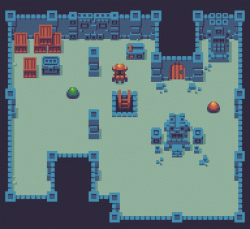
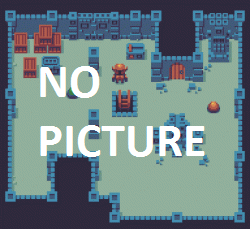
allow to upload pictures

Changed region(s): [[0.14, 0.5197, 0.84, 0.7031], [0.14, 0.2751, 0.42, 0.4279]]

diff --git a/controllers/entry.js b/controllers/entry.js
@@ -1,4 +1,7 @@
 const formidable = require('formidable')
+const promisify = require('promisify-node')
+const fs = promisify('fs')
+const path = require('path')
 const Entry = require('../models/entryModel')
 
 module.exports = {
@@ -8,7 +11,7 @@ module.exports = {
 
     app.get('/entry/:uuid', viewEntry)
     app.get('/entry/:uuid/edit', editEntry)
-    app.post('/entry/:uuid/edit', saveEntry)
+    app.post('/entry/:uuid', saveEntry)
   }
 
 }
@@ -19,8 +22,7 @@ module.exports = {
 async function entryMiddleware (req, res, next) {
   let entry = await Entry.where('id', req.params.uuid).fetch({ withRelated: 'event' })
   if (entry === null) {
-    res.locals.errorMessage = 'Entry not found'
-    res.error404()
+    res.error(404, 'Entry not found')
   } else {
     res.locals.entry = entry
     res.locals.event = entry.related('event')
@@ -31,7 +33,7 @@ async function entryMiddleware (req, res, next) {
 /**
  * Browse entry
  */
-async function viewEntry (req, res) {
+function viewEntry (req, res) {
   res.render('entry', {
     entry: res.locals.entry,
     event: res.locals.event
@@ -41,7 +43,7 @@ async function viewEntry (req, res) {
 /**
  * Edit entry
  */
-async function editEntry (req, res) {
+function editEntry (req, res) {
   res.render('entry-edit', {
     entry: res.locals.entry,
     event: res.locals.event
@@ -51,21 +53,33 @@ async function editEntry (req, res) {
 /**
  * Save entry
  */
-async function saveEntry (req, res) {
-  let form = new formidable.IncomingForm()
-  form.parse(req, function (error, fields, files) {
-    if (error) {
-      // TODO 500 page (replace error404 method with a more generic one)
-      res.end(error)
-    } else {
-      // TODO Save uploaded file, escape input
-      let entry = res.locals.entry
-      entry.set('title', fields.title)
-      entry.set('link', fields.link)
-      entry.set('description', fields.description)
-      entry.save()
-
-      res.redirect('/entry/' + req.params.uuid)
+function saveEntry (req, res) {
+  req.parseForm(async function (error, fields, files) {
+    if (!res.headersSent) { // FIXME Why?
+      if (error) {
+        res.error(500, error)
+      } else {
+        let entry = res.locals.entry
+        entry.set('title', fields.title)
+        entry.set('link', fields.link)
+        entry.set('description', fields.description)
+        if (fields.pictureDelete) {
+          entry.set('picture', null)
+        } else if (files.picture) {
+          // TODO Consts import to hold paths and URLs
+          let newFilename = entry.get('id') + path.extname(files.picture.path)
+          let newPath = path.join(__dirname, '../static/uploads', newFilename)
+          try {
+            await fs.rename(files.picture.path, newPath)
+            entry.set('picture', '/static/uploads/' + newFilename)
+          }
+          catch (e) {
+            res.error(500, 'Failed to upload picture: ' + e.message)
+          }
+        }
+        entry.save()
+        viewEntry(req, res)
+      }
     }
   })
 }

diff --git a/lib/middleware.js b/lib/middleware.js
@@ -2,8 +2,11 @@ const path = require('path')
 const express = require('express')
 const expressNunjucks = require('express-nunjucks')
 const postCss = require('postcss-middleware')
+const formidable = require('formidable')
+const promisify = require('promisify-node')
 
 const ROOT_PATH = path.join(__dirname, '..')
+const MB = 1024 * 1024
 
 /**
  * Setup app middleware
@@ -24,7 +27,7 @@ module.exports.configure = async function (app) {
   })
   app.use(function (req, res, next) {
     // Allow anyone to display a 404
-    res.error404 = () => error404(req, res)
+    res.errorPage = (code, message) => error404(req, res, code, message)
 
     // Context made available anywhere
     let superRender = res.render
@@ -41,7 +44,19 @@ module.exports.configure = async function (app) {
 
     next()
   })
-
+  
+  // Formidable (form parsing/file upload)
+  let form = new formidable.IncomingForm()
+  form.uploadDir = path.join(__dirname, '../data/tmp')
+  form.maxFieldsSize = 2 * MB
+  form.keepExtensions = true
+  app.use(function (req, res, next) {
+    req.parseForm = function(cb) {
+      form.parse(req, cb)
+    }
+    next()
+  })
+  
   // Routing: Views
   require('../controllers/event.js').initRoutes(app)
   require('../controllers/entry.js').initRoutes(app)
@@ -54,7 +69,9 @@ module.exports.configure = async function (app) {
 /**
  * Middleware displaying a 404 page
  */
-function error404 (req, res) {
-  res.status(404)
-  res.render('404', {errorMessage: res.locals.errorMessage || 'Page not found'})
+function error404 (req, res, code, message) {
+  let errorTemplate = (code == 500) ? 500 : 404
+  let defaultMessage = (code == 404) ? 'Page not found' : ''
+  res.status(code)
+  res.render(errorTemplate, {message: message || defaultMessage})
 }

diff --git a/static/css/wejam.css b/static/css/wejam.css
@@ -1,6 +1,6 @@
 :root {
   --text: #19181b; /* dark purple */
-  --links: #5b6ada; /* blue */
+  --links: #265cd9; /* blue */
   --linksalt: color(var(--links) lightness(30%)); /* darker blue */
   
   --bg: linear-gradient(to bottom, #fff8 20%, #fff4 100%); /* lighter */
@@ -18,7 +18,7 @@ html {
 }
 
 body {
-  background: linear-gradient(to bottom, #cac2d6 0%, #dfdae7 100%);
+  background: linear-gradient(to bottom, #c7cdd1 0%, #e3e6e8 100%);
   color: var(--text);
   height: 100%;
   padding-top: 70px;
@@ -40,17 +40,36 @@ a:hover {
 
 /* Nav bar */
 
-.navbar-default .navbar-nav a, .navbar-brand {
+.navbar-default {
+  /* Whole navbar */
+  background: linear-gradient(to bottom, #a8d9ff 0%, #a8cbff 100%);
   font-size: 2rem;
+}
+
+.navbar-default .navbar-brand, .navbar-default .navbar-nav>.active>a, .navbar-default .navbar-nav>.active>a:focus, .navbar-default .navbar-nav>.active>a:hover, .navbar-default .navbar-nav>li>a {
+  /* All links  */
+  color: var(--linksalt);
   padding: 20px;
   letter-spacing: 3px;
 }
-.navbar-brand {
-  font-size: 3.5rem;
-  padding-right: 50px;
+
+.navbar-default .navbar-nav>.active>a, .navbar-default .navbar-nav>.active>a:hover {
+  /* Active link */
+  background: none;
+  background-color: white;
+  color: var(--text);
 }
-.navbar-default .navbar-brand:focus, .navbar-default .navbar-brand:hover {
-  color: var(--links);
+
+.navbar-brand {
+  /* Logo link */
+  font-size: 3.5rem;
+  margin-right: 50px;
+}
+
+.navbar-nav a:hover {
+  /* Non-active link hover */
+  background: linear-gradient(to bottom, #c2e4ff 0%, #c2daff 100%);
+  color: var(--text);
 }
 
 /* Reusable blocks */

diff --git a/templates/entry-edit.html b/templates/entry-edit.html
@@ -4,7 +4,7 @@
 
 <h1><a href="/">Events</a> > <a href="/event/{{ event.get('id') }}">{{ event.get('title') }}</a> > <a href="/entry/{{ entry.get('id') }}">{{ entry.get('title') }}</a></h1>
 
-<form method="post">
+<form action="/entry/{{ entry.get('id') }}" method="post" enctype="multipart/form-data">
 
   <div class="container">
     <div class="row entry">
@@ -24,6 +24,7 @@
           </div>
           <div class="form-group pull-right">
             <input type="submit" class="btn btn-primary" value="Save changes" />
+            <a class="btn btn-default" href="/entry/{{ entry.get('id') }}">Cancel</a> 
           </div>
         </div>
         
@@ -31,10 +32,13 @@
           <div class="form-group">
             <label for="title">Picture</label>
             <input type="file" id="picture" name="picture" />
+            {% if entry.has('picture') %}
+            <label><input type="checkbox" name="pictureDelete" /> Delete picture</label>
+            {% endif %}
             
             <br />
-            {% if entry.get('picture') %}
-            <img src="{{entry.picture}}" style="width: 100%" />
+            {% if entry.has('picture') %}
+            <img src="{{ entry.get('picture') }}" style="width: 100%" />
             {% else %}
             <img src="/static/images/test.png" style="width: 100%" />
             {% endif %}

diff --git a/templates/entry.html b/templates/entry.html
@@ -7,8 +7,8 @@
 <div class="container">
   <div class="row entry">
     <div class="col-md-4">
-      {% if entry.get('picture') %}
-      <img src="{{entry.picture}}" style="width: 100%" />
+      {% if entry.has('picture') %}
+      <img src="{{ entry.get('picture') }}" style="width: 100%" />
       {% else %}
       <img src="/static/images/test.png" style="width: 100%" />
       {% endif %}
@@ -17,7 +17,10 @@
       <p>{{ entry.get('description') }}</p>
       <p>Lorem ipsum dolor sit amet, consectetur adipiscing elit, sed do eiusmod tempor incididunt ut labore et dolore magna aliqua. Ut enim ad minim veniam, quis nostrud exercitation ullamco laboris nisi ut aliquip ex ea commodo consequat.</p>
     </div>
-    <a class="btn btn-primary" href="/entry/{{ entry.get('id') }}/edit">Edit this entry</a>
+    {% if entry.has('link') %}
+    <a class="btn btn-primary" href="{{ entry.get('link') }}">Play this game</a>
+    {% endif %}
+    <a class="btn btn-default" href="/entry/{{ entry.get('id') }}/edit">Edit entry</a>
   </div>
 </div>
 

diff --git a/wejam.js b/wejam.js
@@ -55,13 +55,10 @@ function catchErrorsAndSignals () {
  * Initialize files for first startup
  */
 async function initFilesLayout () {
-  // Create data folder
-  const DATA_PATH = './data'
-  try {
-    await fs.access(DATA_PATH, fs.constants.R_OK)
-  } catch (e) {
-    await fs.mkdir(DATA_PATH)
-  }
+  // Create data folders
+  createFolderIfMissing('./data')
+  createFolderIfMissing('./data/tmp')
+  createFolderIfMissing('./static/uploads')
 
   // Create config.js if missing
   const CONFIG_PATH = './config.js'
@@ -72,6 +69,14 @@ async function initFilesLayout () {
     let sampleConfig = await fs.readFile(CONFIG_SAMPLE_PATH)
     await fs.appendFile(CONFIG_PATH, sampleConfig)
     log.info(CONFIG_PATH + ' initialized with sample values')
+  }
+}
+
+async function createFolderIfMissing (path) {
+  try {
+    await fs.access(path, fs.constants.R_OK)
+  } catch (e) {
+    await fs.mkdir(path)
   }
 }
 

diff --git a/templates/_macros.html b/templates/_macros.html
@@ -1,6 +1,7 @@
 {% macro entryThumb(entry) %}
 <a class="entry-thumb col-md-2" href="/entry/{{ entry.get('id') }}">
-  <img class="entry-thumb__picture" src="/static/images/test.png" />
+  {% set picturePath = entry.get('picture') if entry.has('picture') else '/static/images/test.png' %}
+  <img class="entry-thumb__picture" src="{{ picturePath }}" />
   <div class="entry-thumb__title" >{{ entry.get('title') }}</div>
 </a>
 {% endmacro %}

diff --git a/templates/500.html b/templates/500.html
@@ -2,7 +2,9 @@
 
 {% block body %}
 
-<h1>404: {{ message }}</h1>
+<h1>500: Internal error</h1>
+
+<p>{{ message }}</p>
 
 <p><a href="/">(Back)</a></p>
 
